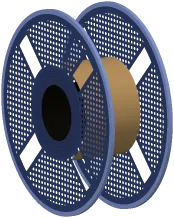
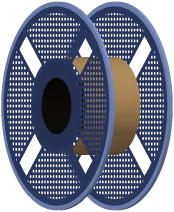
Spulen gerade auf dem Boden (0° Neigung)
Claude-Session: https://claude.ai/code/session_014fbfF7SC7DZFkVwMv2793c

diff --git a/app/static/common.js b/app/static/common.js
@@ -6,10 +6,10 @@
       const c = /^#?[0-9a-f]{6}$/i.test(color || "") ? (color[0] === "#" ? color : "#" + color) : "#9aa4b2";
       const id = "sp" + (PH._sp = (PH._sp || 0) + 1);
       const f = Math.max(0, Math.min(1, +fill || 0)), k = f < 0.02 ? 0 : Math.max(1, Math.round(f * 10));
-      return `<svg class="spl" viewBox="0 0 174 218" width="${Math.round(h * 174 / 218)}" height="${h}" aria-hidden="true">
+      return `<svg class="spl" viewBox="0 0 174 212" width="${Math.round(h * 174 / 212)}" height="${h}" aria-hidden="true">
         <filter id="${id}" color-interpolation-filters="sRGB"><feFlood flood-color="${c}"/><feComposite in2="SourceGraphic" operator="arithmetic" k1="1"/></filter>
-        ${k ? `<image href="/static/spool/f${k}.webp" width="174" height="218" filter="url(#${id})"/>` : ""}
-        <image href="/static/spool/b${k}.webp" width="174" height="218"/></svg>`;
+        ${k ? `<image href="/static/spool/f${k}.webp?v=2" width="174" height="212" filter="url(#${id})"/>` : ""}
+        <image href="/static/spool/b${k}.webp?v=2" width="174" height="212"/></svg>`;
     },
     esc: s => String(s ?? "").replace(/[&<>"]/g, c => ({"&": "&amp;", "<": "&lt;", ">": "&gt;", '"': "&quot;"}[c])),
     eur: v => v == null ? "–" : Number(v).toLocaleString("de-DE", {minimumFractionDigits: 2, maximumFractionDigits: 2}) + " €",
